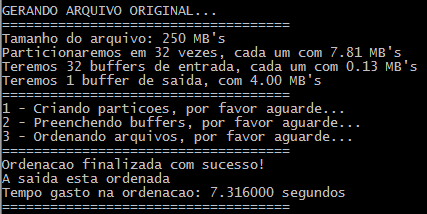
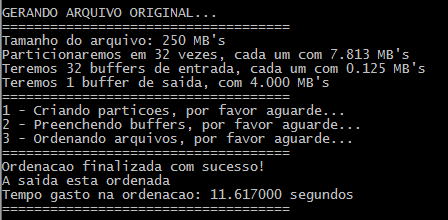
:mag: Atualizando imagem exemplo.

diff --git a/ordenacao_externa/ordenacao_externa.c b/ordenacao_externa/ordenacao_externa.c
@@ -48,9 +48,9 @@ void ordenacao_externa(char *entrada, unsigned long int bytes_registros, unsigne
   unsigned long int qtd_registro_entrada = floor(((float)(bytes_registros-bytes_buffer_saida)/k)/sizeof(ITEM_VENDA));
   
   printf("Tamanho do arquivo: %ld MB's\n", (e/sizeof(ITEM_VENDA))/sizeof(ITEM_VENDA));
-  printf("Particionaremos em %d vezes, cada um com %.2f MB's\n", k, (float)((e/sizeof(ITEM_VENDA))/sizeof(ITEM_VENDA))/k);
-  printf("Teremos %d buffers de entrada, cada um com %.2f MB's\n", k, (float)(qtd_registro_entrada)/sizeof(ITEM_VENDA));
-  printf("Teremos 1 buffer de saida, com %.2f MB's\n", (float)bytes_buffer_saida/(sizeof(ITEM_VENDA)*sizeof(ITEM_VENDA)));
+  printf("Particionaremos em %d vezes, cada um com %.3f MB's\n", k, (float)((e/sizeof(ITEM_VENDA))/sizeof(ITEM_VENDA))/k);
+  printf("Teremos %d buffers de entrada, cada um com %.3f MB's\n", k, (float)(qtd_registro_entrada)/sizeof(ITEM_VENDA));
+  printf("Teremos 1 buffer de saida, com %.3f MB's\n", (float)bytes_buffer_saida/(sizeof(ITEM_VENDA)*sizeof(ITEM_VENDA)));
   printf("====================================\n");
 
   printf("1 - Criando particoes, por favor aguarde...");
